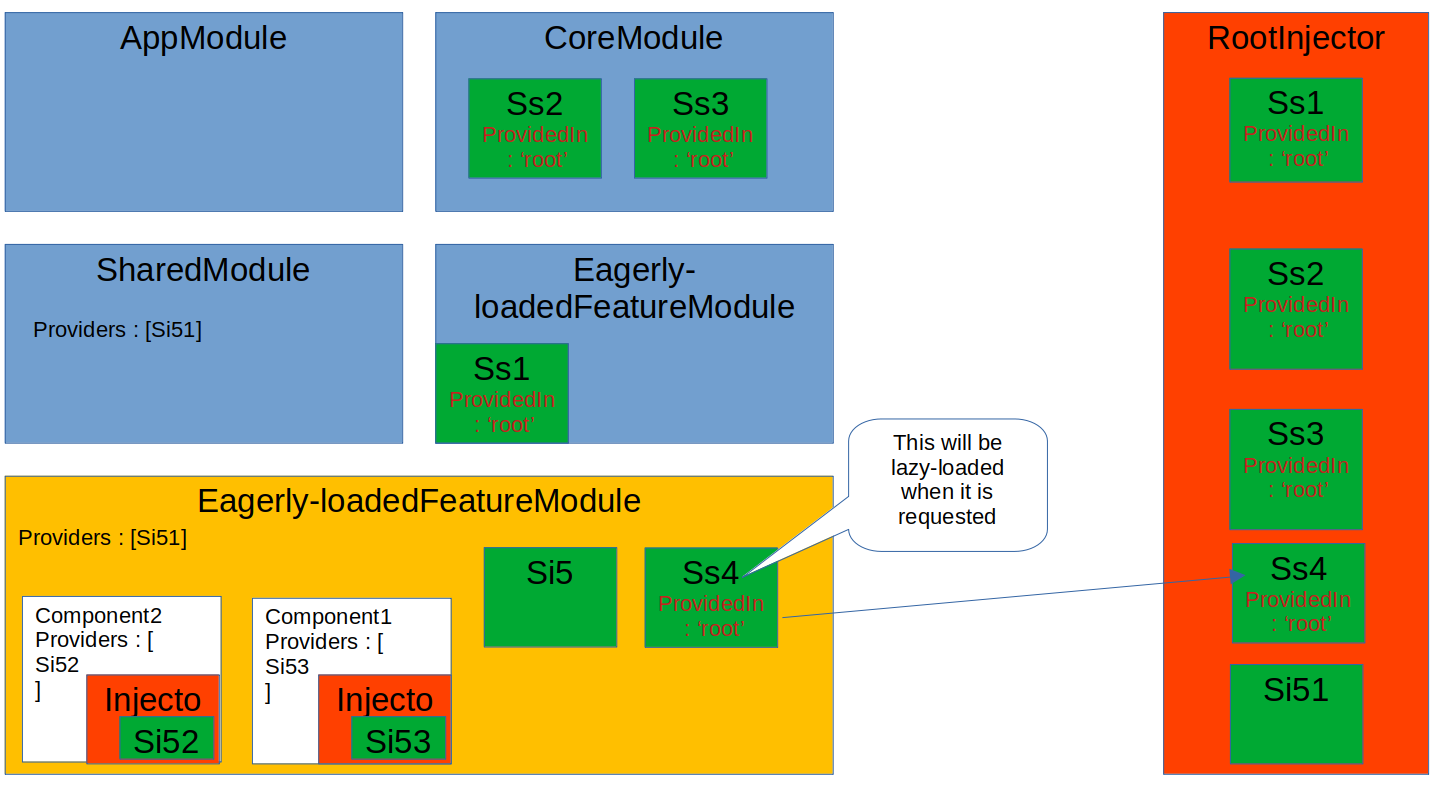
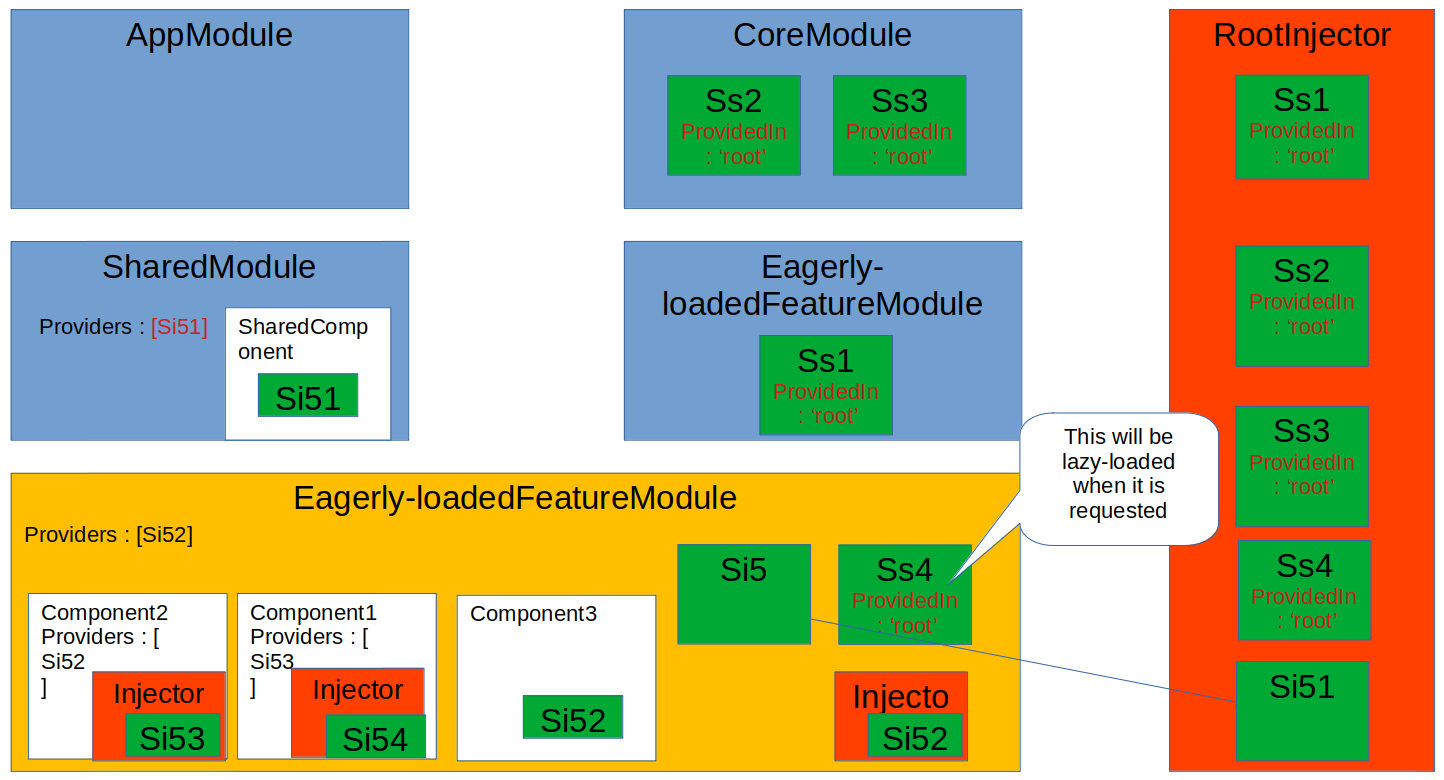
providing services for laz-loaded modules

diff --git a/src/app/users/users.module.ts b/src/app/users/users.module.ts
@@ -7,6 +7,7 @@ import {SignInComponent} from "./sign-in.component";
 import {SharedModule} from "../shared/shared.module";
 import {ServiceI1Service} from "../catalog/service-i1.service";
 import {UsersRoutingModule} from "./users-routing.module";
+import { UsersComponent } from './users/users.component';
 
 @NgModule({
   imports: [
@@ -19,8 +20,9 @@ import {UsersRoutingModule} from "./users-routing.module";
   declarations: [
     RegisterComponent,
     SignInComponent,
+    UsersComponent,
   ],
-  providers: [ServiceI1Service]// TODO: test lazy-loading of Modules to know if we get the same instance provided in the CatalogModule
+  providers: [ServiceI1Service]// In lazy-loading of a Module we get a new instance of the service
 })
 export class UsersModule {
   constructor() {

diff --git a/src/app/catalog/catalog.component.ts b/src/app/catalog/catalog.component.ts
@@ -18,10 +18,12 @@ export class CatalogComponent implements OnInit {
     private catalogRepository: CatalogRepositoryService,
     public userRepository: UserRepositoryService,
     private filterClassesService: FilterClassesService,
-     private serviceI1Service: ServiceI1Service// here we will instance of the Root injector
+     private serviceI1Service: ServiceI1Service// here we will have the instance of the Root injector
   ) { }
 
   ngOnInit() {
+    this.serviceI1Service.hello();
+
     this.catalogRepository.getCatalog()
       .subscribe((classes: IClass[]) => { this.classes = classes; this.applyFilter('') });
   }

diff --git a/src/app/users/users/users.component.spec.ts b/src/app/users/users/users.component.spec.ts
@@ -1,0 +1,23 @@
+import { ComponentFixture, TestBed } from '@angular/core/testing';
+
+import { UsersComponent } from './users.component';
+
+describe('UsersComponent', () => {
+  let component: UsersComponent;
+  let fixture: ComponentFixture<UsersComponent>;
+
+  beforeEach(async () => {
+    await TestBed.configureTestingModule({
+      declarations: [ UsersComponent ]
+    })
+    .compileComponents();
+
+    fixture = TestBed.createComponent(UsersComponent);
+    component = fixture.componentInstance;
+    fixture.detectChanges();
+  });
+
+  it('should create', () => {
+    expect(component).toBeTruthy();
+  });
+});

diff --git a/src/app/users/users-routing.module.ts b/src/app/users/users-routing.module.ts
@@ -3,10 +3,12 @@ import { RouterModule, Routes } from '@angular/router';
 
 import { SignInComponent } from './sign-in.component';
 import {RegisterComponent} from "./register.component";
+import {UsersComponent} from "./users/users.component";
 
 const routes: Routes = [
   { path: 'register', component: RegisterComponent, },
   { path: 'sign-in', component: SignInComponent, },
+  { path: 'list', component: UsersComponent, },
 ];
 
 @NgModule({

diff --git a/src/app/catalog/service-i1.service.ts b/src/app/catalog/service-i1.service.ts
@@ -3,12 +3,15 @@ import { Injectable } from '@angular/core';
 @Injectable()
 export class ServiceI1Service {
   private static instanceCount: number = 0;
+  private readonly test: string = '';
+
   constructor() {
     ServiceI1Service.instanceCount++;
     console.log(ServiceI1Service.instanceCount);
+    this.test = 'instance ' + ServiceI1Service.instanceCount;
   }
 
   hello() {
-    console.log("hello")
+    console.log(this.test)
   }
 }

diff --git a/src/app/users/users/users.component.ts b/src/app/users/users/users.component.ts
@@ -1,0 +1,16 @@
+import { Component } from '@angular/core';
+import {ServiceI1Service} from "../../catalog/service-i1.service";
+
+@Component({
+  selector: 'wb-users',
+  templateUrl: './users.component.html',
+  styleUrls: ['./users.component.css']
+})
+export class UsersComponent {
+  constructor(private serviceI1Service: ServiceI1Service) {
+  }
+
+  ngOnInit() {
+    this.serviceI1Service.hello();
+  }
+}

diff --git a/src/app/core/account-menu.component.ts b/src/app/core/account-menu.component.ts
@@ -15,6 +15,7 @@ import {IUser} from "../users/user.model";
       </span>
       <span *ngIf="!user"><a [routerLink]="['/users/sign-in']">Sign In</a></span>
       <span *ngIf="!user"><a [routerLink]="['/users/register']">Register</a></span>
+      <span *ngIf="!user"><a [routerLink]="['/users/list']">Users List</a></span>
     </div>`
 })
 export class AccountMenuComponent {

diff --git a/src/app/app.component.ts b/src/app/app.component.ts
@@ -1,4 +1,5 @@
 import { Component } from '@angular/core';
+import {ServiceI1Service} from "./catalog/service-i1.service";
 
 @Component({
   selector: 'app-root',
@@ -20,4 +21,7 @@ import { Component } from '@angular/core';
       </div>
   `,
 })
-export class AppComponent { }
+export class AppComponent {
+  constructor(private serviceI1Service: ServiceI1Service) {
+  }
+}

diff --git a/src/app/users/sign-in.component.ts b/src/app/users/sign-in.component.ts
@@ -15,6 +15,10 @@ export class SignInComponent {
   constructor(private router: Router, private dataRepository: UserRepositoryService, private serviceI1Service: ServiceI1Service) {
   }
 
+  ngOnInit() {
+    this.serviceI1Service.hello();
+  }
+
   signIn(credentials: any) {
     this.dataRepository.signIn(credentials)
       .subscribe({

diff --git a/src/app/users/register.component.ts b/src/app/users/register.component.ts
@@ -33,6 +33,9 @@ export class RegisterComponent {
     });
   }
 
+  ngOnInit() {
+    this.serviceI1Service.hello();
+  }
 
   registerUser(user: IUser) {
     this.saving = true;

diff --git a/src/app/users/users/users.component.html b/src/app/users/users/users.component.html
@@ -1,0 +1,1 @@
+<p>users works!</p>

diff --git a/README.md b/README.md
@@ -49,6 +49,8 @@ this tool gives the possibility to work with different node version in the same 
   - `nvm use 18.10.0`
 - Install Angular CLI : [Angular version compatibility](https://angular.io/guide/versions)
   - `npm install -g @angular/cli@version`
+- install local web server to test builds : `npm -g http-server`
+  - run the web server `http-server dis/directory_of_build`
 
 # Application structure and file naming
 
@@ -105,11 +107,16 @@ the IDE or the compiler will alert us of that error
 - Use @Injectable instead of @Inject. Less verbosity when handling dependency injection. Make the service more flexible for future evolution
 - As a best practice we provide services with the providedIn root in the service metadata instead of the providers key in the module.
 This will register the service as a singleton in the Angular Root Injector, and it will be available for the entire app
-![](/home/admintalan/Documents/me/angular/whitebeards/docs/service-injectors.png "Service Injectors")
+![](./docs/service-injectors.png "Service Injectors")
 
 - Use Services for data retrieval, like the CatalogRepositoryService in our case 
 
 # Angular performance best practices
 
 - Lazy-load Feature modules
+- When lazy-loading a module and it has some services registered in the providers key, we get new instances of them. 
+That's why it is considered best practice to use the providedIn root for singleton services
+- The use of providers key in the metadata of a component creates a specific injector for that component.
+ In this case the registered service is instantiated each time we load the component.
+ This is useful in cases we want to have a new instance dedicated for that component
 - 
